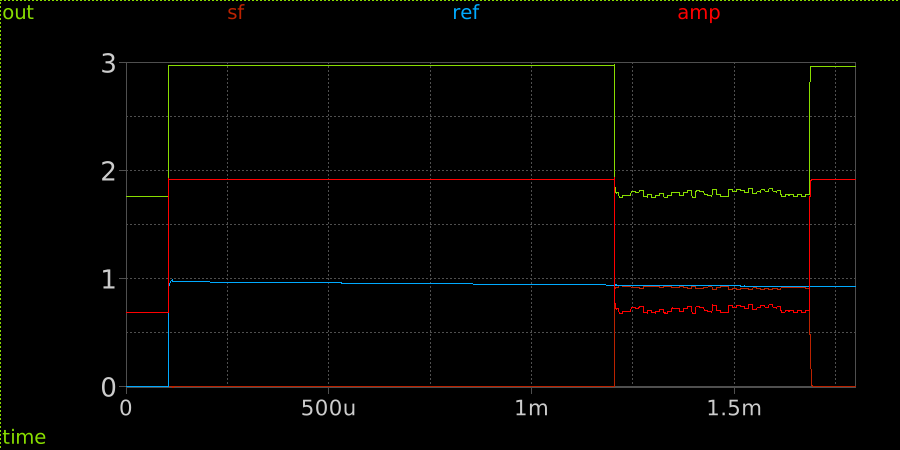
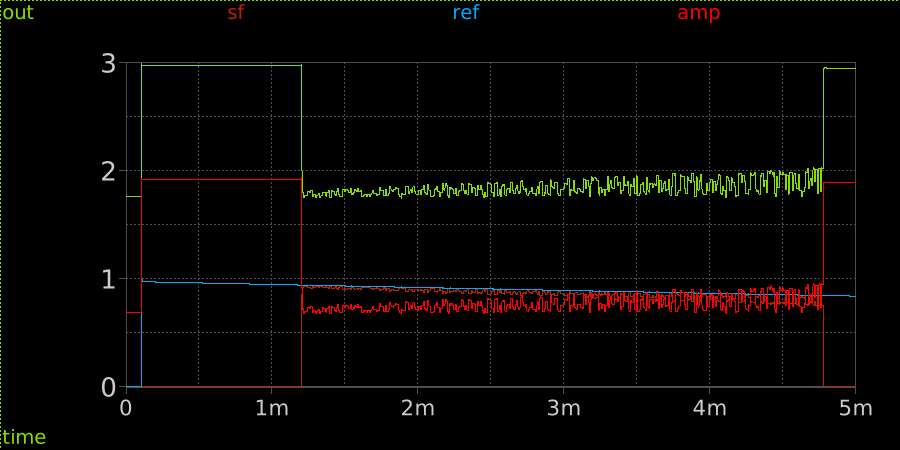
Simulation of the entire detector in uncorrelated mode

diff --git a/xschem/test/tb_total_tran.py b/xschem/test/tb_total_tran.py
@@ -3,8 +3,8 @@ from spicelib import RawRead
 import matplotlib.pyplot as plt
 import numpy as np
 
-NROWS    = 8
-NCOLUMNS = 6
+NROWS    = 17
+NCOLUMNS = 21
 FIRST_PIXEL = 1213
 DT_PIXEL = 10
 
@@ -17,7 +17,7 @@ def data():
 
 
 def test_plot_samples(data):
-    plt.figure()
+    plt.figure(figsize=[6.4*1.5, 4.8])
 
     
     plot = data.plots[0]

diff --git a/xschem/test/gen_pixel_array.py b/xschem/test/gen_pixel_array.py
@@ -4,8 +4,8 @@ random.seed(42)
 
 lines = []
 
-NROWS = 8
-NCOLS = 6
+NROWS = 17
+NCOLS = 21
 
 START_T = 1200
 PIXEL_T = 10
